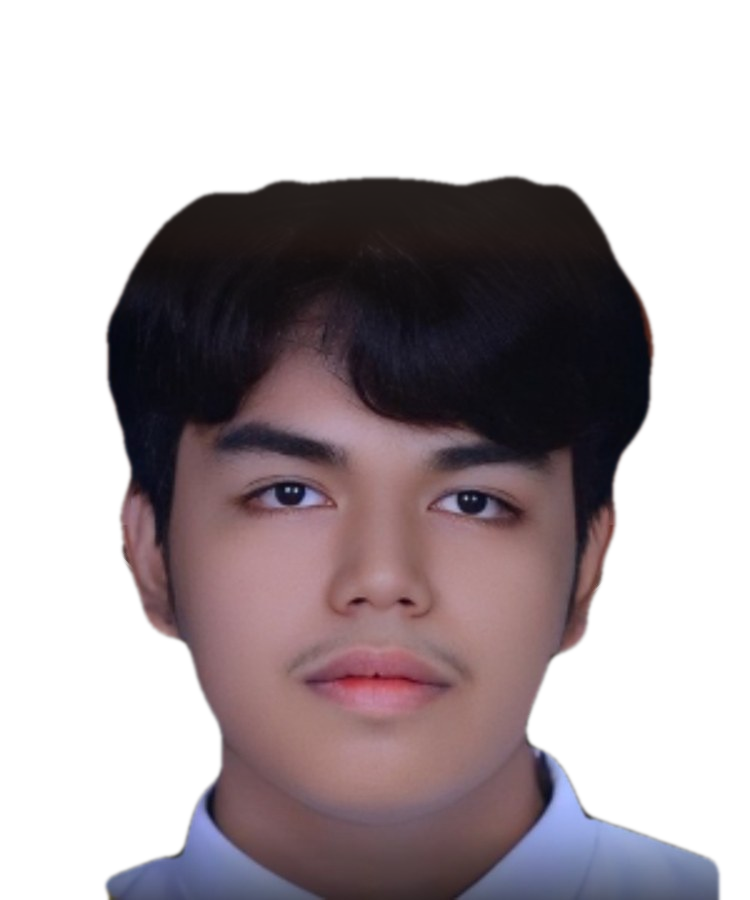
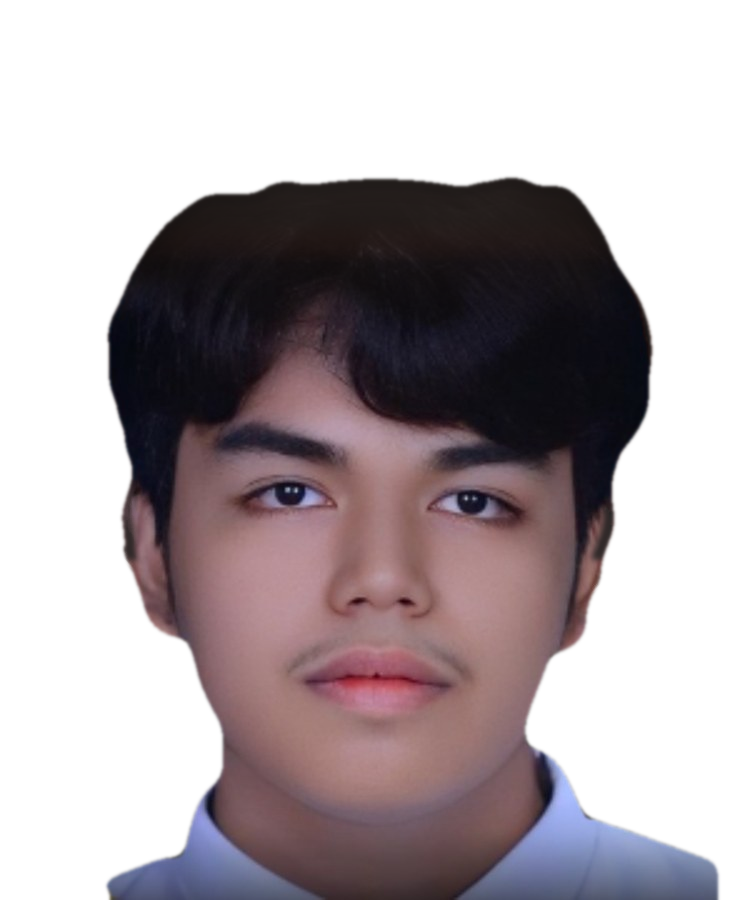
Hero portrait: solid cutout, clean edges
Claude-Session: https://claude.ai/code/session_01M45835aLKZZgJtsguAoggL

diff --git a/index.html b/index.html
@@ -424,10 +424,10 @@
   .rmeta p,.rmeta li{color:var(--muted);font-size:.93rem}.rmeta ul{margin:0;padding-left:18px}
   @media(max-width:640px){.rjob{grid-template-columns:1fr}}
 
-  .hero-face{position:absolute;right:3%;top:70px;bottom:0;width:min(46%,620px);z-index:0;pointer-events:none;opacity:.6;
+  .hero-face{position:absolute;right:0;top:70px;bottom:0;width:min(42%,600px);z-index:0;pointer-events:none;opacity:1;
     background:url(paul-cutout.png) right top/contain no-repeat;
     -webkit-mask-image:linear-gradient(0deg,transparent 0,#000 22%);mask-image:linear-gradient(0deg,transparent 0,#000 22%);
-    filter:contrast(1.05)}
+    filter:none}
   .hero{z-index:1}
   @media(max-width:760px){.hero-face{right:-8%;top:60px;bottom:auto;aspect-ratio:5/6;width:92%;opacity:.2;-webkit-mask-image:linear-gradient(0deg,transparent 0,#000 35%);mask-image:linear-gradient(0deg,transparent 0,#000 35%)}}
 </style>
